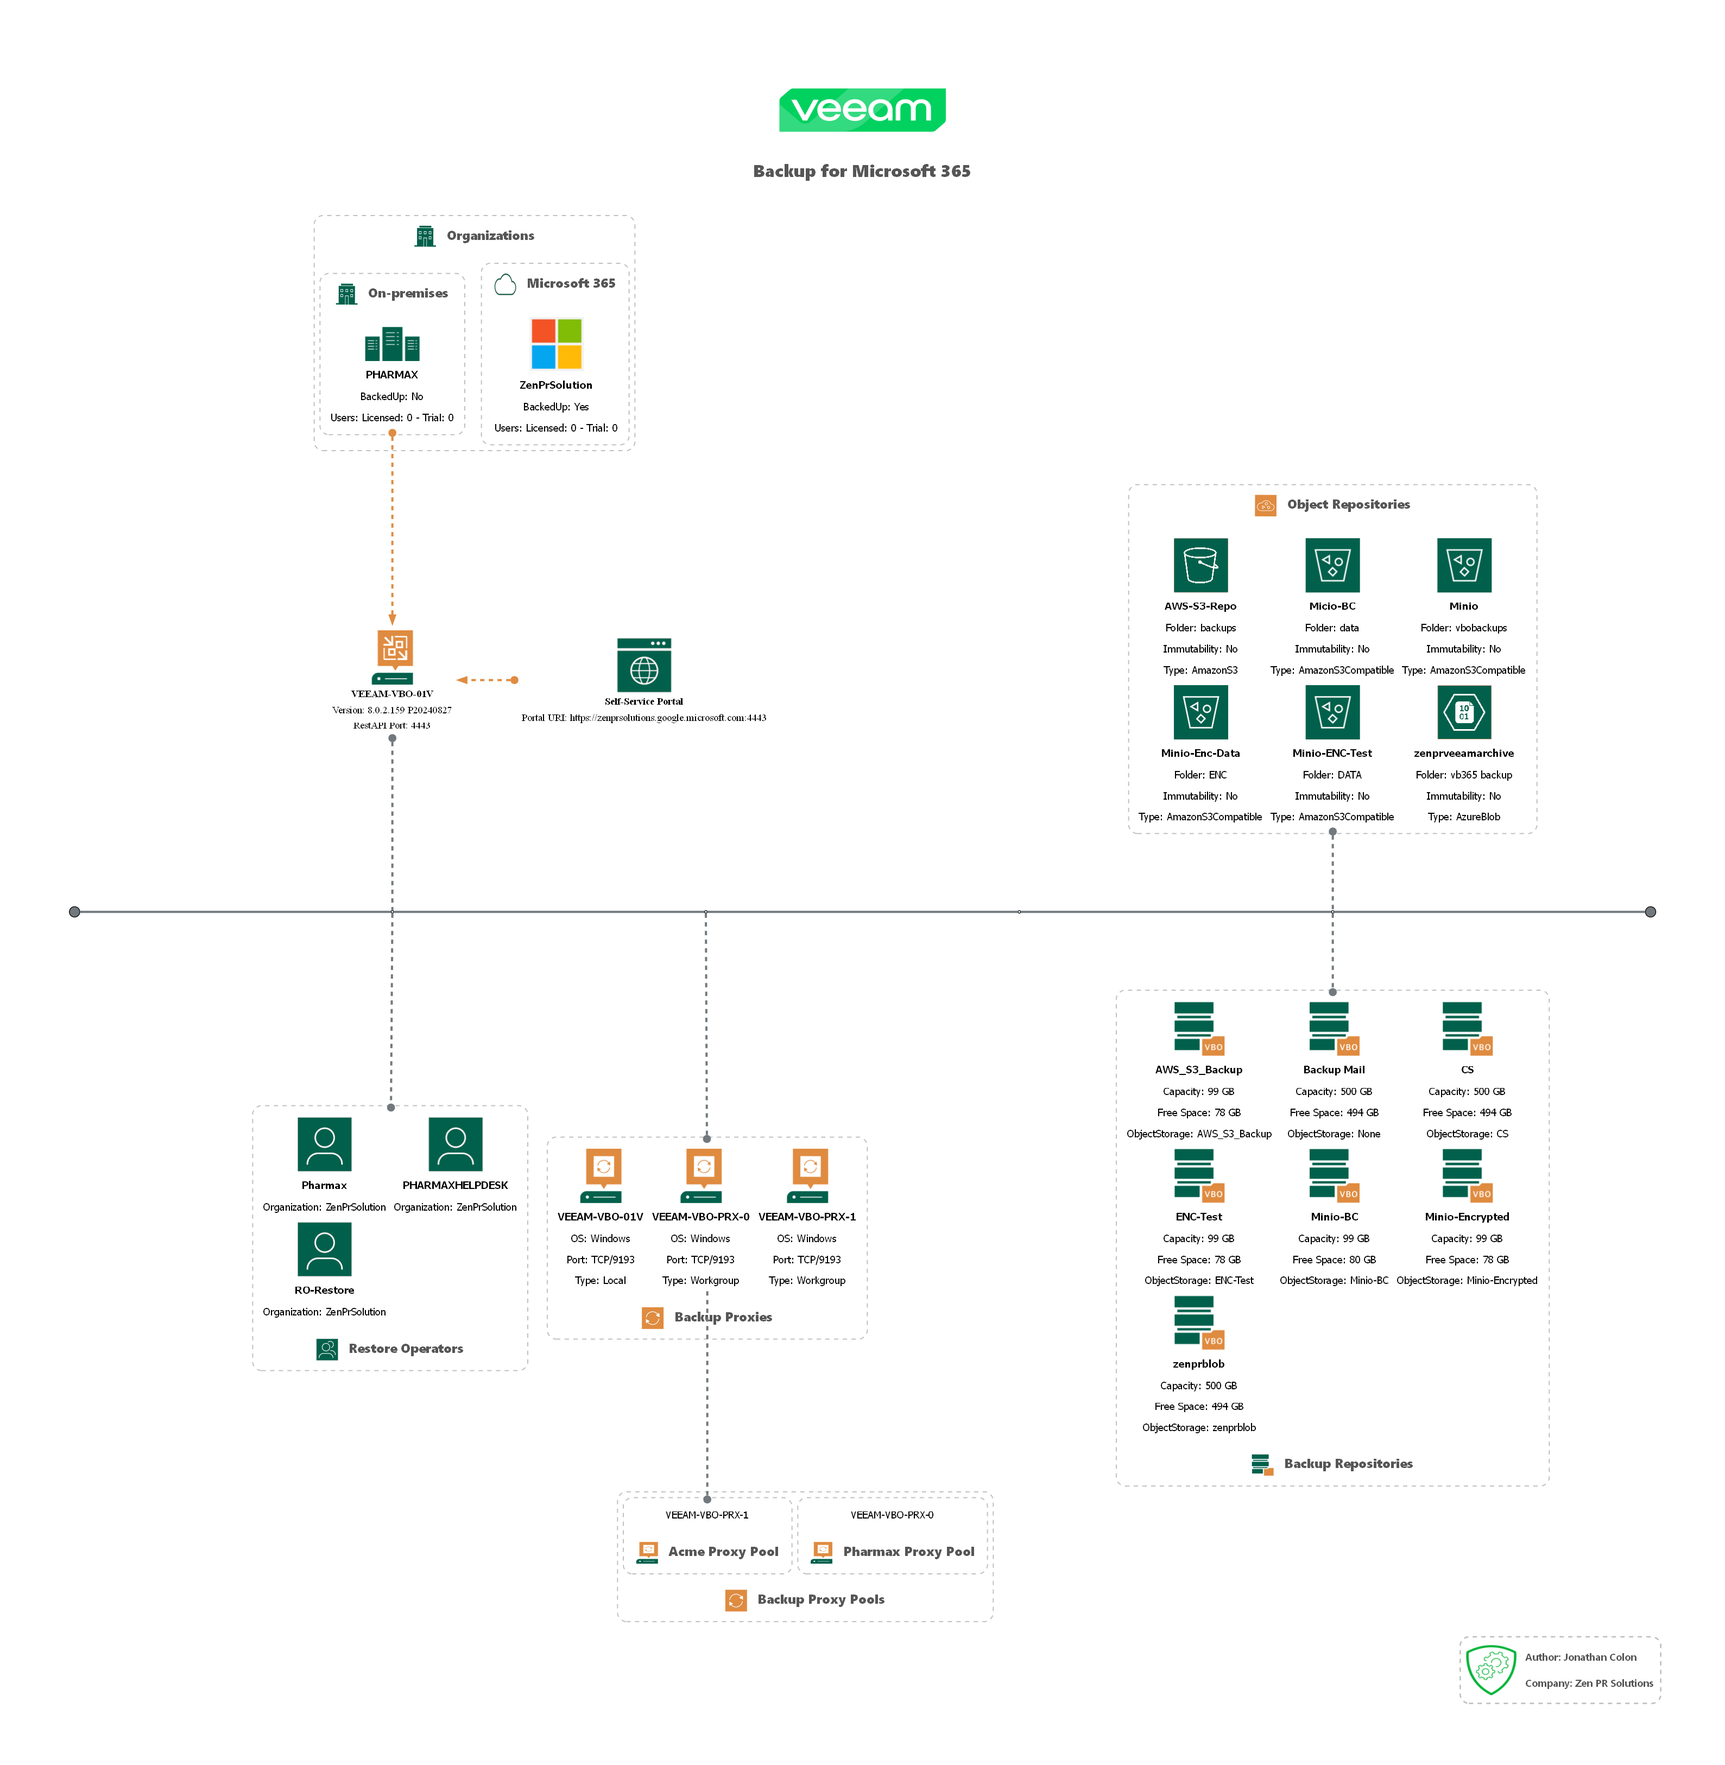
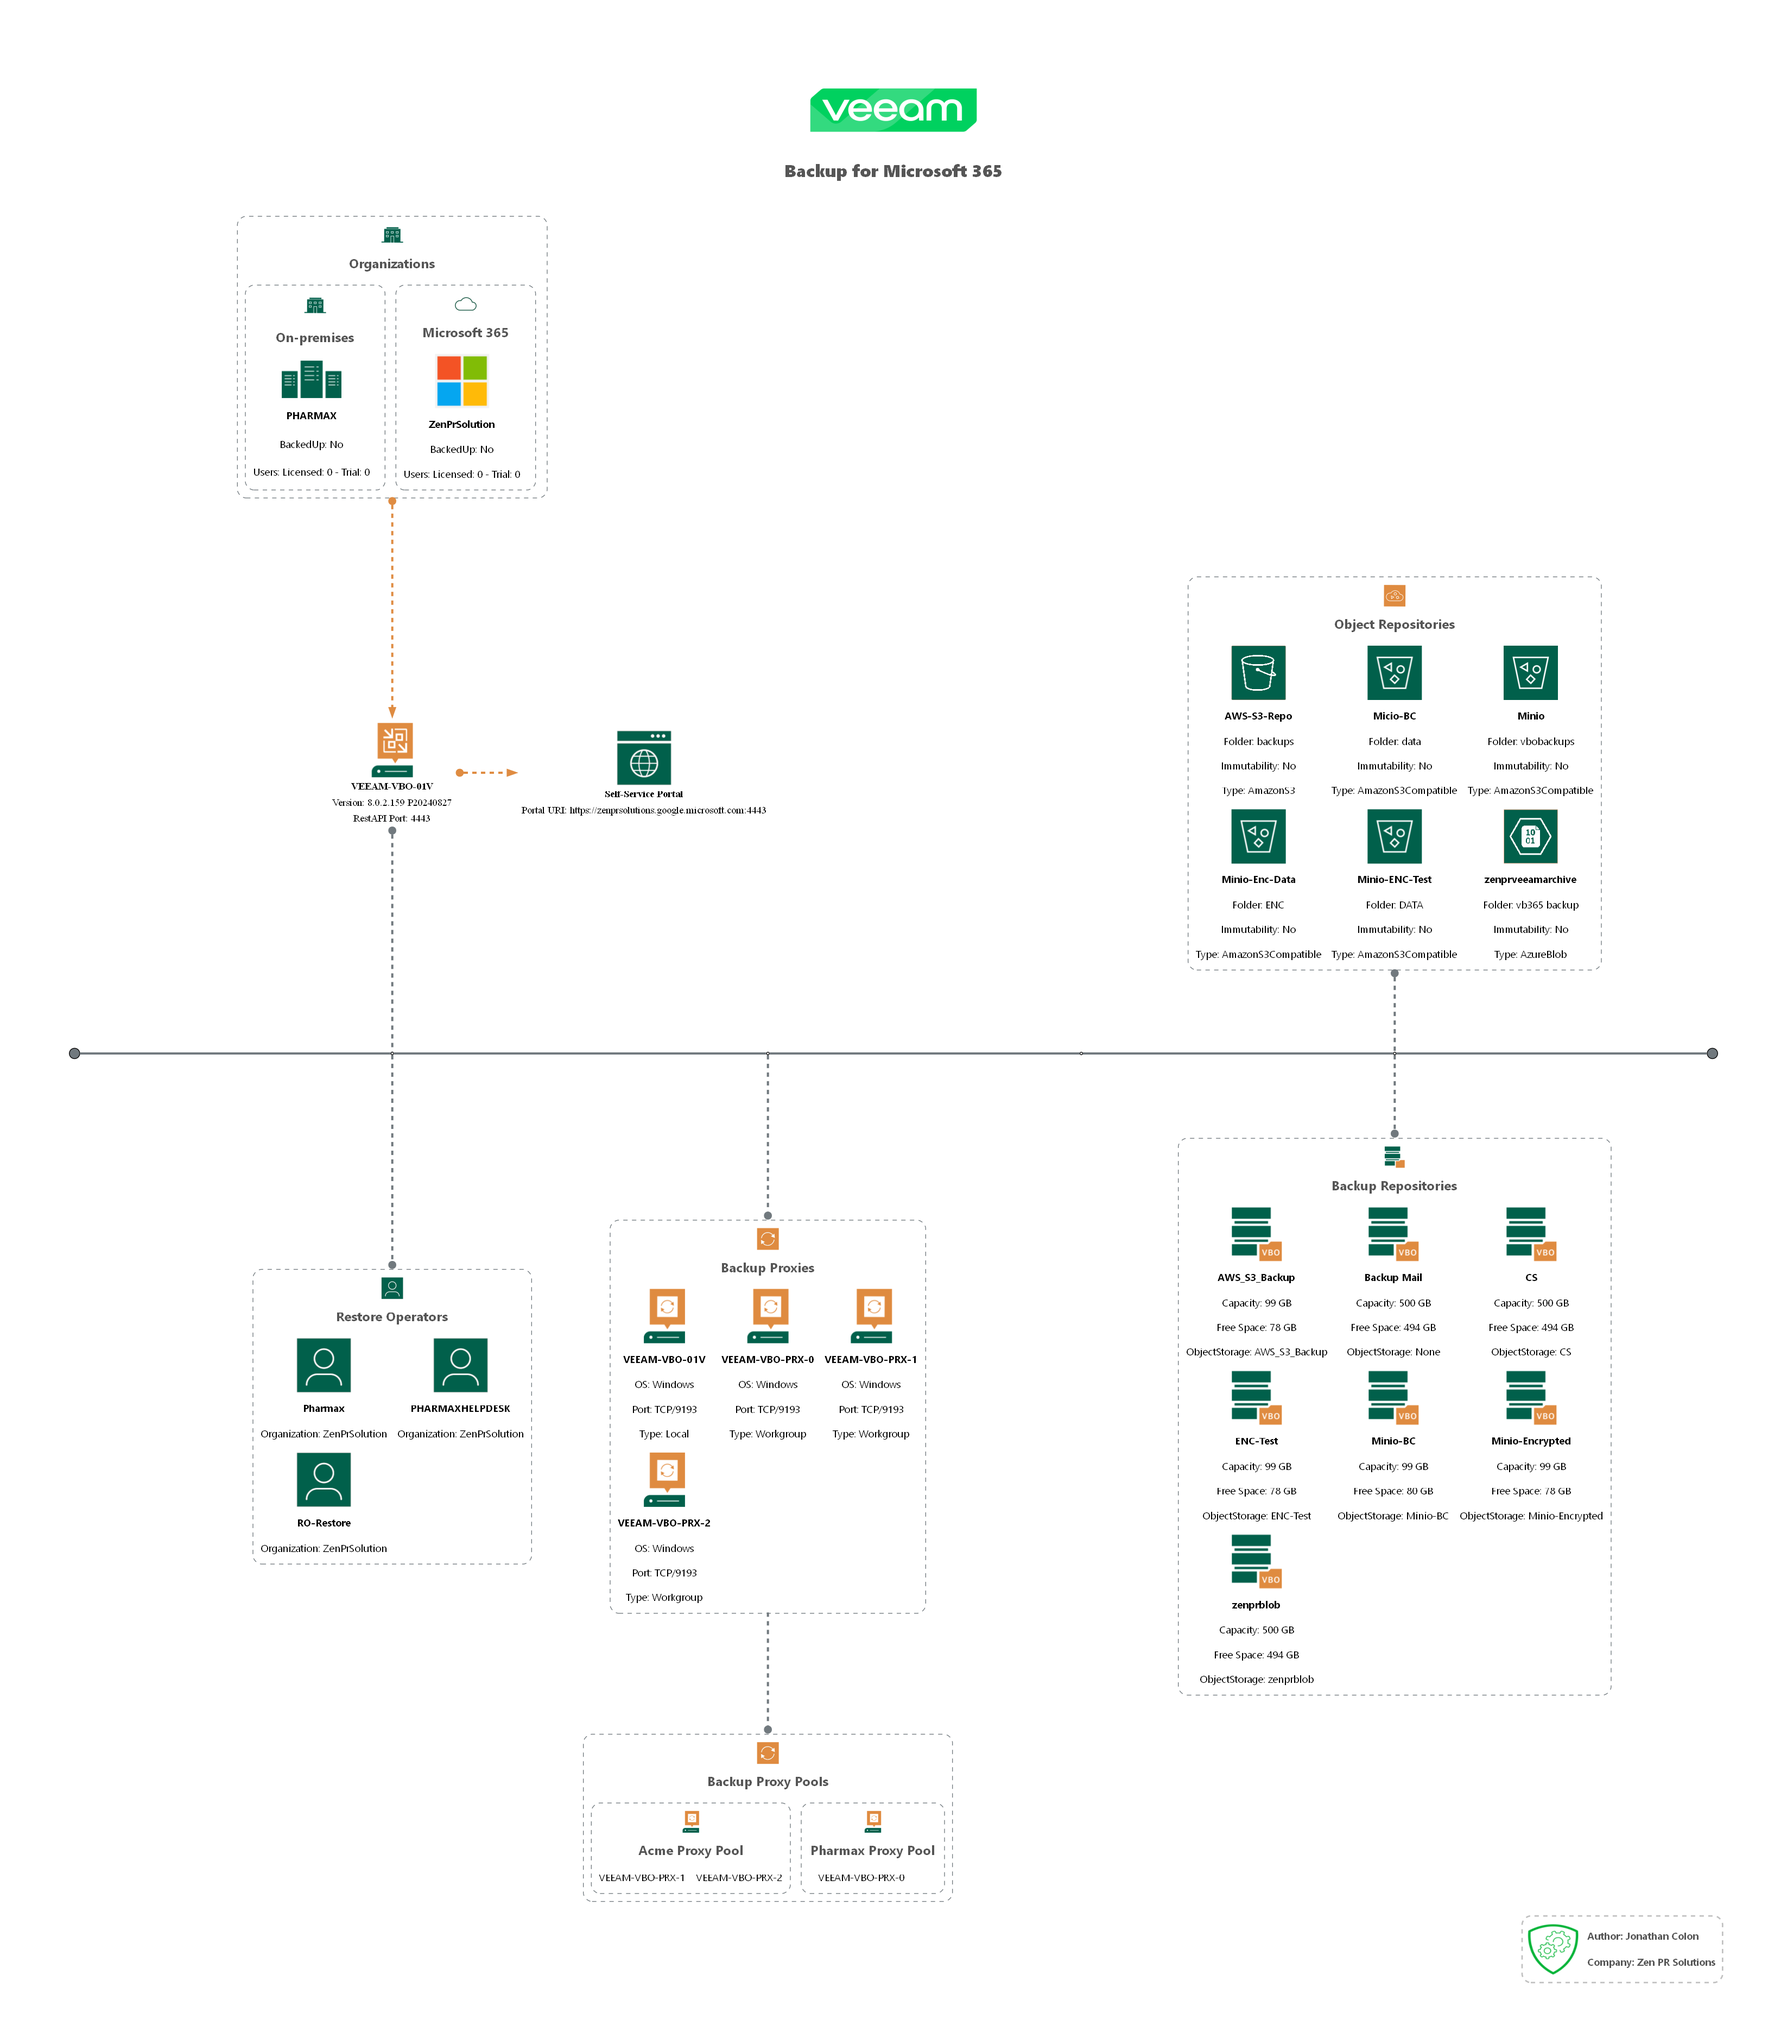
Improve infrastructure diagram

diff --git a/CHANGELOG.md b/CHANGELOG.md
@@ -12,6 +12,9 @@ and this project adheres to [Semantic Versioning](https://semver.org/spec/v2.0.0
 ### Changed
 
 - Improve infrastructure diagram
+- Increase Diagrammer.Core to v0.2.9
+- Update Sample Diagram
+
 
 ## [0.3.6] - 2024-09-16
 
